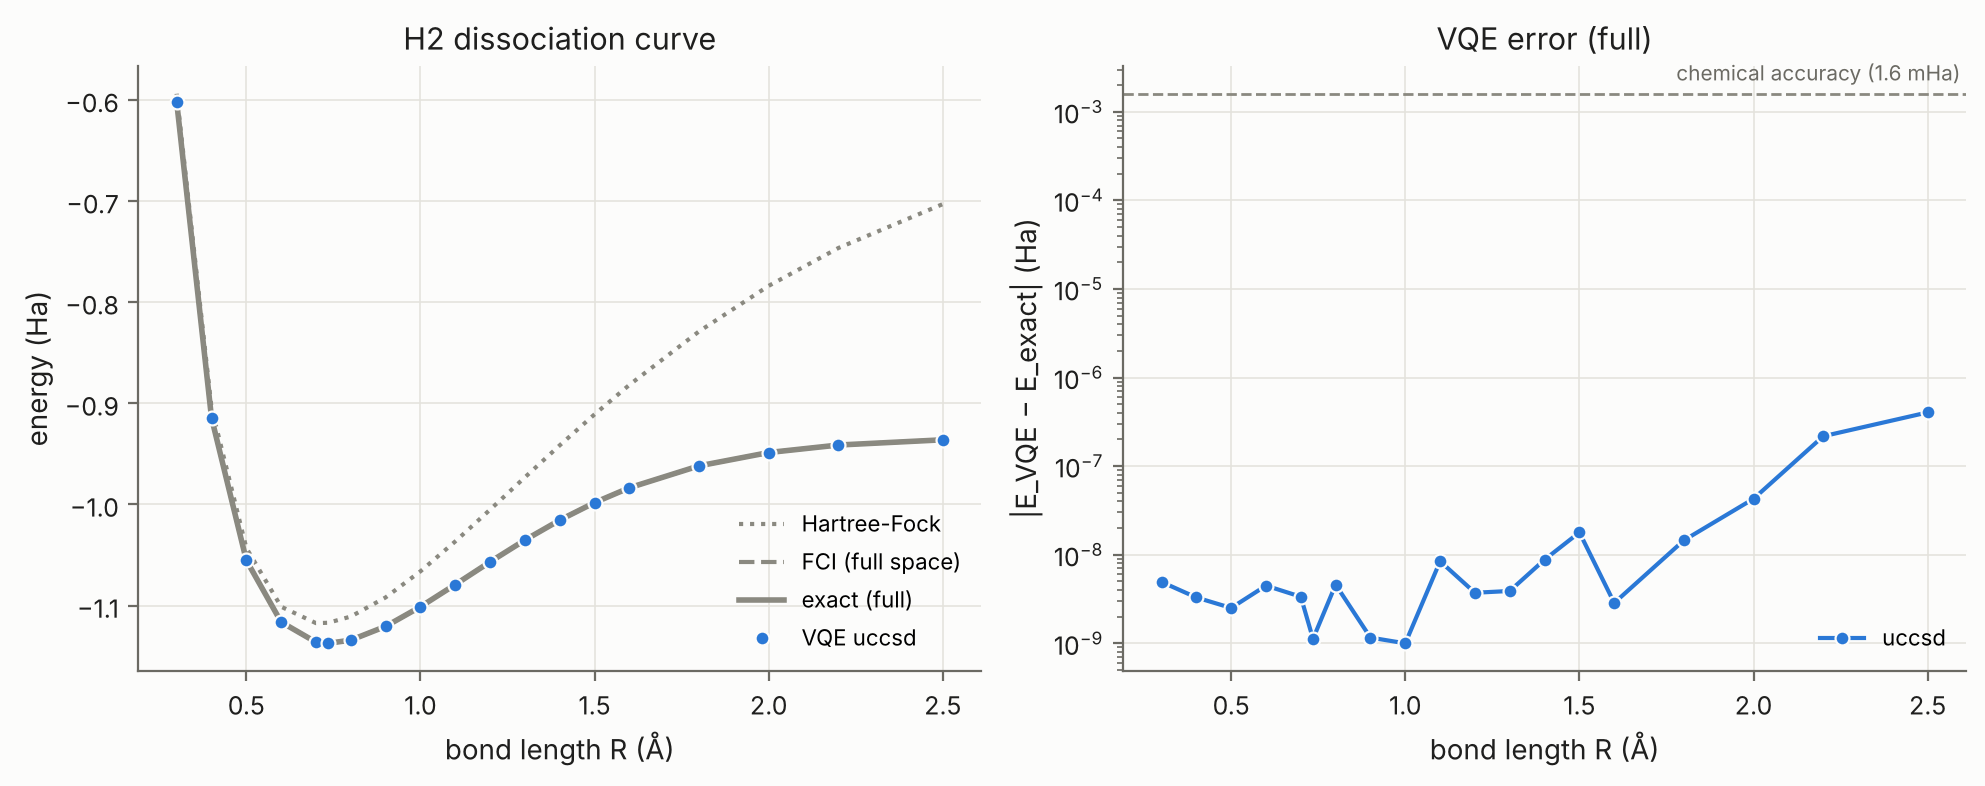
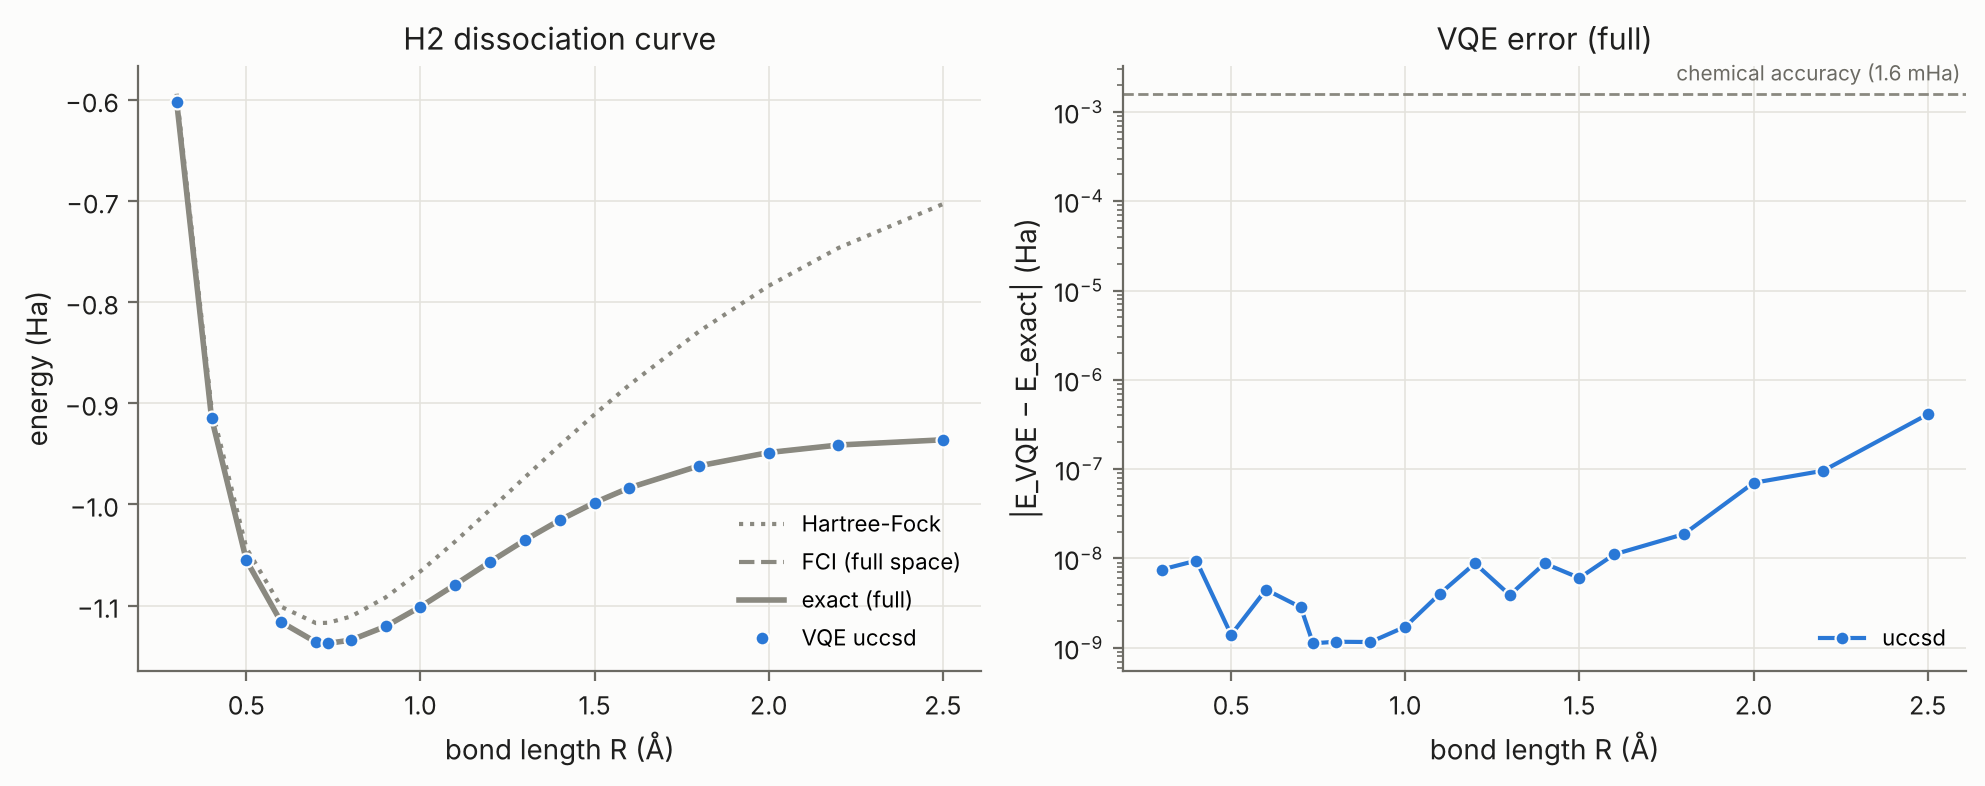
vqe-lih: checkpoint/resume experiments, fast exact-distribution shot sampling, run_all.sh
- Each job's result is cached under results/raw/<name>.parts/ (keyed by a hash
  of its settings); curve sweeps also checkpoint every bond length, so a rerun
  after an interruption resumes instead of starting over.
- ShotEstimator (noiseless) simulates the state once per evaluation and draws
  each group's counts from the exact rotated-basis distribution; same
  statistics as running the measured circuits, cost independent of shots.
- CLI --workers override; run_all.sh regenerates every result in order.

Claude-Session: https://claude.ai/code/session_014sHtV3C4oZ992gNwssGW5W

diff --git a/projects/vqe-lih/src/vqe_lih/experiments.py b/projects/vqe-lih/src/vqe_lih/experiments.py
@@ -7,6 +7,7 @@ histories, gitignored), ``results/summary/<name>*.csv`` (committed) and
 
 from __future__ import annotations
 
+import hashlib
 import itertools
 import json
 import multiprocessing as mp
@@ -21,7 +22,7 @@ import numpy as np
 import pandas as pd
 
 from qcc_common.metrics import circuit_metrics
-from qcc_common.results import ExperimentRecord
+from qcc_common.results import ExperimentRecord, to_jsonable
 
 PROJECT_ROOT = Path(__file__).resolve().parents[2]
 RESULTS_DIR = PROJECT_ROOT / "results"
@@ -91,19 +92,49 @@ def load_summary(config: dict, name: str) -> pd.DataFrame:
     return pd.read_csv(path)
 
 
-def _parallel_map(fn: Callable, jobs: list, workers: int) -> list:
+def _job_key(job: dict) -> str:
+    blob = json.dumps(to_jsonable(job), sort_keys=True)
+    return hashlib.sha256(blob.encode()).hexdigest()[:16]
+
+
+def _checkpointed(args: tuple[Callable, dict]):
+    """Run ``fn(job)`` unless its result is already in ``job["_checkpoint"]``."""
+    fn, job = args
+    path = Path(job["_checkpoint"])
+    if path.is_file():
+        return json.loads(path.read_text())
+    result = to_jsonable(fn(job))
+    tmp = path.with_suffix(".tmp")
+    tmp.write_text(json.dumps(result))
+    tmp.replace(path)
+    return result
+
+
+def _parallel_map(
+    fn: Callable, jobs: list, workers: int, checkpoint_dir: Path | None = None
+) -> list:
+    """Map ``fn`` over ``jobs`` in worker processes. With ``checkpoint_dir``, every finished
+    job is saved there and skipped on a rerun, so an interrupted experiment resumes."""
+    if checkpoint_dir is not None:
+        checkpoint_dir.mkdir(parents=True, exist_ok=True)
+        jobs = [
+            {**job, "_checkpoint": str(checkpoint_dir / f"{_job_key(job)}.json")} for job in jobs
+        ]
+    args = [(fn, job) if checkpoint_dir is not None else job for job in jobs]
+    call = _checkpointed if checkpoint_dir is not None else fn
     if workers <= 1 or len(jobs) <= 1:
-        return [fn(job) for job in jobs]
+        return [call(a) for a in args]
     ctx = mp.get_context("spawn")
     with ProcessPoolExecutor(max_workers=min(workers, len(jobs)), mp_context=ctx) as pool:
-        return list(pool.map(fn, jobs))
+        return list(pool.map(call, args))
 
 
 def _strip(row: dict) -> dict:
-    return {k: v for k, v in row.items() if k not in ("parameters", "history")}
+    return {k: v for k, v in row.items() if k not in ("parameters", "history", "_checkpoint")}
 
 
-# ----------------------------------------------------------------------- curve (E1, E2, E3)
+def _parts_dir(config: dict) -> Path:
+    return Path(config["results_dir"]) / "raw" / f"{config['name']}.parts"
 
 
 def _curve_job(job: dict) -> list[dict]:
@@ -127,7 +158,20 @@ def _curve_job(job: dict) -> list[dict]:
     ansatz = metrics = None
     params_at: dict[float, list[float]] = {}
     rows = []
+    # Per-point resume: finished points are appended to a JSON-lines file next to the checkpoint.
+    points_file = (
+        Path(job["_checkpoint"]).with_suffix(".points.jsonl") if "_checkpoint" in job else None
+    )
+    done = {}
+    if points_file is not None and points_file.is_file():
+        for line in points_file.read_text().splitlines():
+            row = json.loads(line)
+            done[row["bond_length"]] = row
     for r, prev in order:
+        if r in done:
+            rows.append(done[r])
+            params_at[r] = done[r]["parameters"]
+            continue
         ham = build_hamiltonian(job["molecule"], r, job["basis"], space, job["mapper"])
         if ansatz is None:
             circuit = build_ansatz(spec, ham)
@@ -192,6 +236,9 @@ def _curve_job(job: dict) -> list[dict]:
             "history": record.history,
         }
         rows.append(row)
+        if points_file is not None:
+            with points_file.open("a") as f:
+                f.write(json.dumps(to_jsonable(row)) + "\n")
         log(
             f"[{job['molecule']} {space.label} {spec.label}] R={r:.3f} "
             f"dE={record.delta_e:.2e} Ha nfev={record.nfev} {record.wall_time:.1f}s"
@@ -223,7 +270,7 @@ def run_curve(config: dict) -> pd.DataFrame:
     jobs.sort(key=lambda j: -(j["active_space"].get("num_spatial_orbitals") or 99))
     rows = [
         row
-        for result in _parallel_map(_curve_job, jobs, config.get("workers", 1))
+        for result in _parallel_map(_curve_job, jobs, config.get("workers", 1), _parts_dir(config))
         for row in result
     ]
     summary = pd.DataFrame([_strip(r) for r in rows]).drop(columns=["restart_energies"])
@@ -547,7 +594,7 @@ def run_optimizers(config: dict) -> pd.DataFrame:
                     }
                 )
     jobs.sort(key=lambda j: (j["ansatz"]["type"] != "hea", j["optimizer"] != "l_bfgs_b"))
-    rows = _parallel_map(_single_vqe_job, jobs, config.get("workers", 1))
+    rows = _parallel_map(_single_vqe_job, jobs, config.get("workers", 1), _parts_dir(config))
     runs = pd.DataFrame([_strip(r) for r in rows])
     runs["abs_delta_e"] = runs.delta_e.abs()
     stats = (
@@ -676,7 +723,7 @@ def run_shots(config: dict) -> pd.DataFrame:
         for i in range(config["repetitions"])
     ]
     jobs.sort(key=lambda j: -j["shots"])
-    rows = _parallel_map(_single_vqe_job, jobs, config.get("workers", 1))
+    rows = _parallel_map(_single_vqe_job, jobs, config.get("workers", 1), _parts_dir(config))
     runs = pd.DataFrame([_strip(r) for r in rows])
     runs["abs_delta_e"] = runs.delta_e.abs()
     stats = (
@@ -838,7 +885,7 @@ def run_noise(config: dict) -> pd.DataFrame:
                     "scale_factors": list(config.get("scale_factors", [1, 3, 5])),
                 }
             )
-    rows = _parallel_map(_noise_job, jobs, config.get("workers", 1))
+    rows = _parallel_map(_noise_job, jobs, config.get("workers", 1), _parts_dir(config))
     table = pd.DataFrame(
         [{k: v for k, v in r.items() if not k.endswith("_by_scale")} for r in rows]
     )

diff --git a/projects/vqe-lih/src/vqe_lih/measurement.py b/projects/vqe-lih/src/vqe_lih/measurement.py
@@ -14,7 +14,7 @@ from qiskit import QuantumCircuit
 from qiskit.primitives import BaseEstimatorV2, PrimitiveJob, PrimitiveResult
 from qiskit.primitives.containers import DataBin, EstimatorPubLike, PubResult
 from qiskit.primitives.containers.estimator_pub import EstimatorPub
-from qiskit.quantum_info import SparsePauliOp
+from qiskit.quantum_info import SparsePauliOp, Statevector
 from qiskit_aer import AerSimulator
 
 
@@ -88,11 +88,18 @@ def group_expectation(
     return mean, variance
 
 
+def _counts_dict(outcome_counts: np.ndarray, num_qubits: int) -> dict[str, int]:
+    return {format(int(i), f"0{num_qubits}b"): int(c) for i, c in enumerate(outcome_counts) if c}
+
+
 class ShotEstimator(BaseEstimatorV2):
     """Estimator V2 that samples ``shots`` shots per measurement group per evaluation.
 
-    Each ``run`` draws fresh simulator seeds from a generator seeded with ``seed``, so runs are
-    reproducible but evaluations have independent shot noise.
+    Without a ``backend`` (noiseless), the state is simulated once per evaluation and each
+    group's outcomes are drawn from the exact measurement distribution in its rotated basis
+    (``rng.multinomial``) — statistically identical to running the measured circuits, but the
+    cost does not grow with ``shots``. With a ``backend``, the measured circuits are run on it.
+    Runs are reproducible for a fixed ``seed``; evaluations have independent shot noise.
     """
 
     def __init__(self, shots: int, seed: int | None = None, backend: AerSimulator | None = None):
@@ -100,8 +107,9 @@ class ShotEstimator(BaseEstimatorV2):
             raise ValueError("shots must be positive")
         self.shots = int(shots)
         self._rng = np.random.default_rng(seed)
-        self._backend = backend or AerSimulator(method="statevector")
+        self._backend = backend
         self._cache: dict[tuple[int, tuple], tuple[list[SparsePauliOp], list[QuantumCircuit]]] = {}
+        self._rotations: dict[tuple[int, tuple], list[QuantumCircuit]] = {}
         self.total_shots = 0
 
     def run(
@@ -121,7 +129,22 @@ class ShotEstimator(BaseEstimatorV2):
             op = SparsePauliOp.from_list(list(obs.items()), num_qubits=circuit.num_qubits)
             groups = qwc_groups(op.simplify())
             self._cache[key] = (groups, [measurement_circuit(circuit, g) for g in groups])
+            self._rotations[key] = [basis_rotation(g) for g in groups]
         return self._cache[key]
+
+    def _sample_exact(self, circuit, obs, binds) -> tuple[float, float]:
+        groups, _ = self._groups(circuit, obs)
+        rotations = self._rotations[(id(circuit), tuple(sorted(obs.items())))]
+        bound = circuit.assign_parameters(binds) if circuit.num_parameters else circuit
+        state = Statevector(bound)
+        mean = var = 0.0
+        for group, rotation in zip(groups, rotations, strict=True):
+            probs = state.evolve(rotation).probabilities()
+            outcome_counts = self._rng.multinomial(self.shots, probs / probs.sum())
+            m, v = group_expectation(_counts_dict(outcome_counts, circuit.num_qubits), group)
+            mean, var = mean + m, var + v
+        self.total_shots += self.shots * len(groups)
+        return mean, var
 
     def _run_pub(self, pub: EstimatorPub) -> PubResult:
         circuit = pub.circuit
@@ -134,8 +157,12 @@ class ShotEstimator(BaseEstimatorV2):
         evs = np.zeros(bc_index.shape)
         stds = np.zeros(bc_index.shape)
         for idx in np.ndindex(*bc_index.shape):
-            groups, circuits = self._groups(circuit, bc_obs[idx])
             binds = values[bc_index[idx]]
+            if self._backend is None:
+                mean, var = self._sample_exact(circuit, bc_obs[idx], binds)
+                evs[idx], stds[idx] = mean, np.sqrt(var)
+                continue
+            groups, circuits = self._groups(circuit, bc_obs[idx])
             bound = (
                 [c.assign_parameters(binds) for c in circuits]
                 if circuit.num_parameters

diff --git a/projects/vqe-lih/tests/test_cli.py b/projects/vqe-lih/tests/test_cli.py
@@ -37,3 +37,18 @@ type = "uccsd"
     assert summary.count("\n") == 3  # header + 2 bond lengths
     assert (tmp_path / "out" / "figures" / "e1_tiny_full.png").is_file()
     assert (tmp_path / "out" / "raw" / "e1_tiny.json").is_file()
+
+
+def test_rerun_resumes_from_checkpoints(tmp_path):
+    config = tmp_path / "e1_tiny.toml"
+    config.write_text(
+        'experiment = "e1"\nmolecule = "H2"\nbond_lengths = [0.7]\nwarm_start = false\nseed = 1\n'
+        '[optimizer]\nname = "cobyla"\n[[ansatze]]\ntype = "uccsd"\n'
+    )
+    out = tmp_path / "out"
+    assert main(["e1", "--config", str(config), "--results-dir", str(out)]) == 0
+    parts = list((out / "raw" / "e1_tiny.parts").glob("*.json"))
+    assert len(parts) == 1
+    parts[0].write_text(parts[0].read_text().replace('"molecule": "H2"', '"molecule": "H2-cached"'))
+    assert main(["e1", "--config", str(config), "--results-dir", str(out)]) == 0
+    assert "H2-cached" in (out / "summary" / "e1_tiny.csv").read_text()

diff --git a/projects/vqe-lih/tests/test_measurement.py b/projects/vqe-lih/tests/test_measurement.py
@@ -37,3 +37,15 @@ def test_readout_inversion_recovers_ideal_value():
     mitigated, _ = group_expectation(counts, group, [np.linalg.inv(confusion)])
     assert raw == pytest.approx(0.8)
     assert mitigated == pytest.approx(1.0)
+
+
+def test_exact_sampling_matches_aer_backend_path(h2):
+    from qiskit_aer import AerSimulator
+
+    ansatz = compile_for_simulation(build_uccsd(h2))
+    params = np.array([0.0, 0.0, -0.11])
+    (exact,) = exact_expectations(ansatz, [h2.qubit_op], params)
+    for backend in (None, AerSimulator()):
+        est = ShotEstimator(shots=20_000, seed=2, backend=backend)
+        res = est.run([(ansatz, h2.qubit_op, params)]).result()[0]
+        assert abs(res.data.evs - exact) < 5 * res.data.stds

diff --git a/projects/vqe-lih/src/vqe_lih/cli.py b/projects/vqe-lih/src/vqe_lih/cli.py
@@ -16,6 +16,7 @@ def build_parser() -> argparse.ArgumentParser:
     parser.add_argument(
         "--results-dir", type=Path, default=None, help="override results/ (raw, summary, figures)"
     )
+    parser.add_argument("--workers", type=int, default=None, help="override worker processes")
     return parser
 
 
@@ -36,6 +37,8 @@ def main(argv: Sequence[str] | None = None) -> int:
         return 2
     config["experiment"] = args.experiment
     config.setdefault("name", args.config.stem)
+    if args.workers is not None:
+        config["workers"] = args.workers
     if args.results_dir is not None:
         config["results_dir"] = str(args.results_dir)
     RUNNERS[args.experiment](config)
